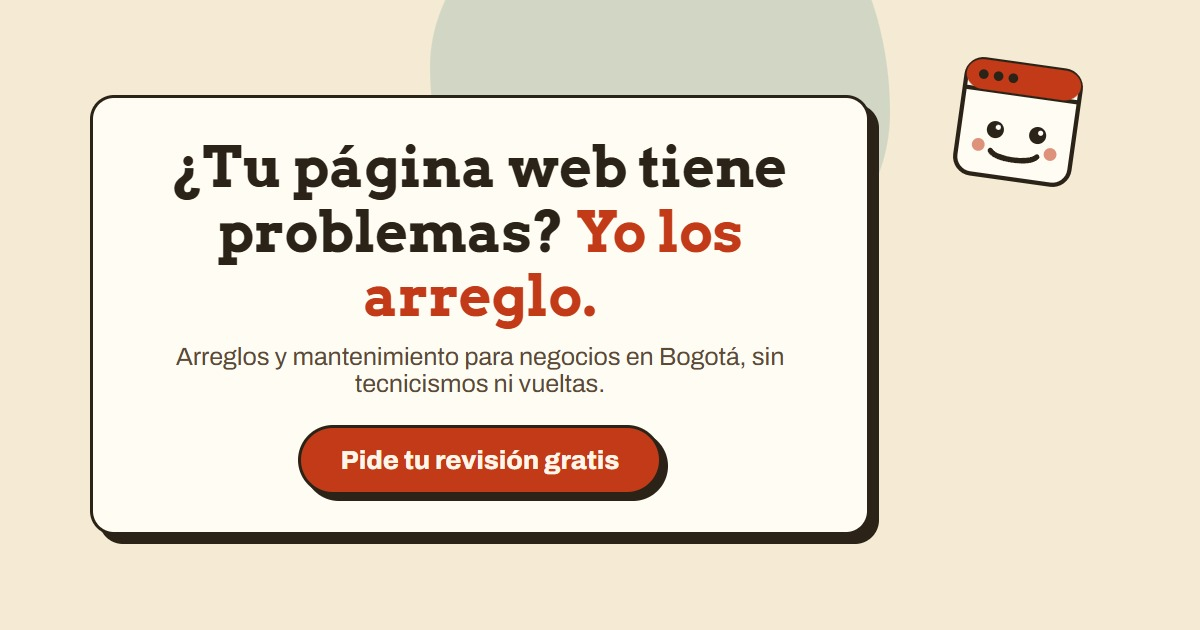
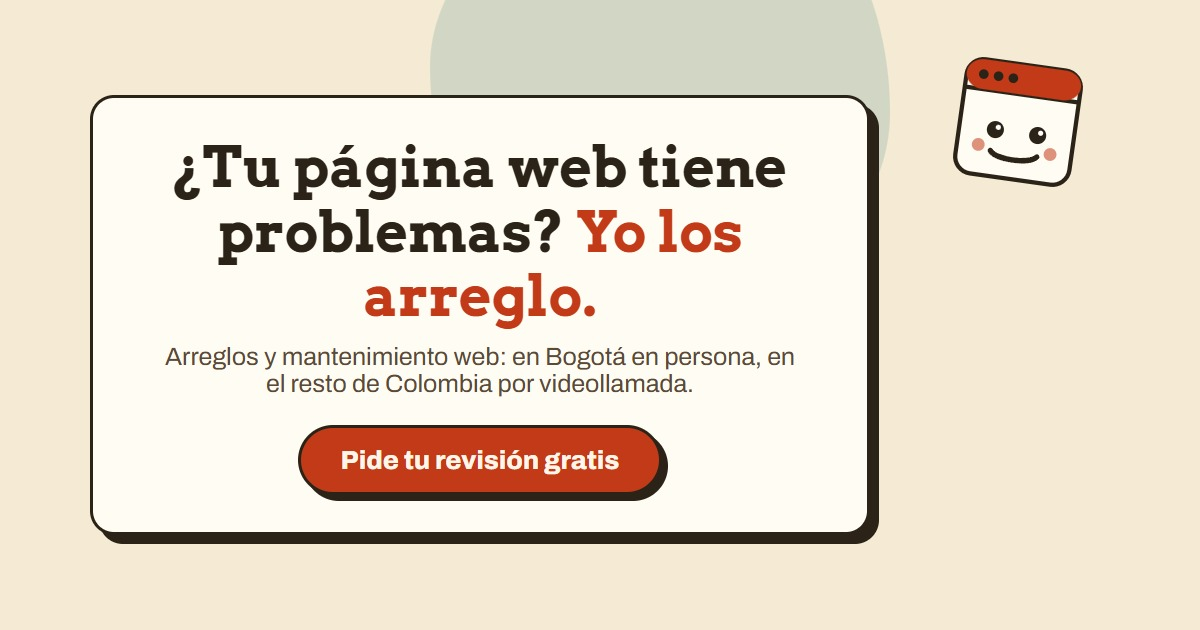
Rebrand to Esteban and expand service area beyond Bogotá
- Julian -> Esteban across all copy, meta tags, WhatsApp message, and
  the mascot's monogram badge (J -> E).
- Copy no longer implies Bogotá-only: in-person in Bogotá, video call
  for the rest of Colombia (hero subtitle, about section, meta
  description, PRODUCT.md).
- Regenerated og-image.jpg with the updated subtitle for consistency.

Claude-Session: https://claude.ai/code/session_01XpaATNJHY3GdeezTwyRHFd

Changed region(s): [[0.1233, 0.5429, 0.6783, 0.6333]]

diff --git a/index.html b/index.html
@@ -3,14 +3,14 @@
   <head>
     <meta charset="UTF-8" />
     <meta name="viewport" content="width=device-width, initial-scale=1.0" />
-    <title>Julian — Arreglo tu página web | Bogotá</title>
-    <meta name="description" content="¿Tu página web tiene problemas? Formulario que no manda correos, carga lenta, no apareces en Google. Arreglo páginas de negocios en Bogotá. Revisión gratis por WhatsApp." />
+    <title>Esteban — Arreglo tu página web</title>
+    <meta name="description" content="¿Tu página web tiene problemas? Formulario que no manda correos, carga lenta, no apareces en Google. Arreglo páginas de negocios en Bogotá y el resto de Colombia por videollamada. Revisión gratis por WhatsApp." />
 
     <!-- Open Graph: así se ve el link al compartirlo por WhatsApp -->
     <meta property="og:type" content="website" />
     <meta property="og:locale" content="es_CO" />
-    <meta property="og:title" content="Julian — Arreglo tu página web" />
-    <meta property="og:description" content="¿Tu página web tiene problemas? Yo los arreglo. Revisión gratis por WhatsApp para negocios en Bogotá." />
+    <meta property="og:title" content="Esteban — Arreglo tu página web" />
+    <meta property="og:description" content="¿Tu página web tiene problemas? Yo los arreglo. Revisión gratis por WhatsApp para negocios en Bogotá y el resto de Colombia." />
     <!-- Reemplaza og-image.jpg (en /public) por una imagen real de 1200x630px antes de publicar (ver README.md) -->
     <meta property="og:image" content="/proyecto-personal/og-image.jpg" />
     <meta name="theme-color" content="#6B4A2C" />

diff --git a/src/components/About.jsx b/src/components/About.jsx
@@ -17,7 +17,7 @@ export default function About() {
               aria-hidden="true"
               className="absolute -top-6 left-1/2 grid h-14 w-14 -translate-x-1/2 -rotate-6 place-items-center rounded-full border-4 border-wall bg-accent font-display text-2xl text-accent-ink shadow-[0_6px_12px_-3px_rgba(0,0,0,0.4)]"
             >
-              J
+              E
             </span>
           }
         >
@@ -25,10 +25,10 @@ export default function About() {
             Sobre mí
           </h2>
           <p className="text-[1.05rem] text-ink-soft">
-            Soy Julian, desarrollador full stack en Bogotá. Trabajo con las mismas tecnologías
+            Soy Esteban, desarrollador full stack. Trabajo con las mismas tecnologías
             que usan empresas grandes, aplicadas a resolver lo que a tu negocio realmente le
-            está costando ventas. Atiendo negocios de toda la ciudad, sin letra pequeña ni
-            tecnicismos.
+            está costando ventas. Atiendo negocios en Bogotá en persona, y en el resto del
+            país por videollamada, sin letra pequeña ni tecnicismos.
           </p>
         </Tag>
       </div>

diff --git a/src/config/whatsapp.js b/src/config/whatsapp.js
@@ -1,10 +1,10 @@
-// ⚠ Reemplaza este número por el número de WhatsApp real de Julian
+// ⚠ Reemplaza este número por el número de WhatsApp real de Esteban
 // (código de país + número, sin espacios ni "+"). Es el ÚNICO lugar
 // del proyecto donde hay que cambiarlo.
 export const WHATSAPP_NUMBER = "573126329466";
 
 export const WHATSAPP_MESSAGE =
-  "Hola Julian, vi tu página y quiero la revisión gratis de mi sitio web";
+  "Hola Esteban, vi tu página y quiero la revisión gratis de mi sitio web";
 
 export function whatsappLink() {
   return `https://wa.me/${WHATSAPP_NUMBER}?text=${encodeURIComponent(WHATSAPP_MESSAGE)}`;

diff --git a/src/components/Hero.jsx b/src/components/Hero.jsx
@@ -27,7 +27,7 @@ export default function Hero() {
             <span className="text-accent">Yo los arreglo.</span>
           </h1>
           <p className="mx-auto mb-7 max-w-[42ch] text-[1.05rem] text-ink-soft sm:text-[1.2rem]">
-            Arreglos y mantenimiento para negocios en Bogotá, sin tecnicismos ni vueltas.
+            Arreglos y mantenimiento web: en Bogotá en persona, en el resto de Colombia por videollamada.
           </p>
           <a
             href={whatsappLink()}

diff --git a/src/components/Footer.jsx b/src/components/Footer.jsx
@@ -1,7 +1,7 @@
 export default function Footer() {
   return (
     <footer className="bg-wall-deep px-4 py-7 text-center text-[0.85rem]">
-      <p className="m-0 text-paper-onwall/55">Julian · Desarrollador web · Bogotá</p>
+      <p className="m-0 text-paper-onwall/55">Esteban · Desarrollador web · Bogotá y remoto por videollamada</p>
     </footer>
   );
 }

diff --git a/PRODUCT.md b/PRODUCT.md
@@ -12,15 +12,15 @@ React 19 + Vite + Tailwind CSS 4, organized into per-section components under `s
 
 ## Users
 
-Small business owners in Bogotá who are not technical. They almost always view the page on a phone, arriving via a link shared in WhatsApp (typically after messaging Julian or receiving his contact). They think in symptoms ("my contact form doesn't send emails," "my site is slow," "I don't show up on Google"), not technical vocabulary.
+Small business owners who are not technical, based in Bogotá (served in person) or elsewhere in Colombia (served by video call). They almost always view the page on a phone, arriving via a link shared in WhatsApp (typically after messaging Esteban or receiving his contact). They think in symptoms ("my contact form doesn't send emails," "my site is slow," "I don't show up on Google"), not technical vocabulary.
 
 ## Product Purpose
 
-This is Julian's personal services page: a single-page site where he offers website fixes and maintenance to small businesses. Its job is to convince a non-technical visitor that Julian can solve their specific website problem, and convert that trust into a WhatsApp message requesting a free review. Success = the visitor taps the WhatsApp button.
+This is Esteban's personal services page: a single-page site where he offers website fixes and maintenance to small businesses. Its job is to convince a non-technical visitor that Esteban can solve their specific website problem, and convert that trust into a WhatsApp message requesting a free review. Success = the visitor taps the WhatsApp button.
 
 ## Positioning
 
-Julian is a full-stack developer in Bogotá who works with technologies large companies use, but applies that skill to fix small businesses' everyday website problems — described in plain client language, never technical jargon. The offer is low-friction and low-risk: free initial review, fixed quote before any work starts, same-day response.
+Esteban is a full-stack developer based in Bogotá (in-person there, video call for the rest of Colombia) who works with technologies large companies use, but applies that skill to fix small businesses' everyday website problems — described in plain client language, never technical jargon. The offer is low-friction and low-risk: free initial review, fixed quote before any work starts, same-day response.
 
 ## Operating Context
 
@@ -29,7 +29,7 @@ Visitors arrive cold, mostly from a WhatsApp-shared link, mostly on mobile data 
 ## Capabilities and Constraints
 
 - Single static page, no forms, no analytics, no cookies.
-- The only call to action is a WhatsApp deep link: `https://wa.me/57XXXXXXXXXX` with a prefilled message ("Hola Julian, vi tu página y quiero la revisión gratis de mi sitio web"). The phone number is a placeholder (`XXXXXXXXXX`) Julian will replace before publishing, and it must stay easy to find/replace in the source.
+- The only call to action is a WhatsApp deep link with a prefilled message ("Hola Esteban, vi tu página y quiero la revisión gratis de mi sitio web"), centralized in `src/config/whatsapp.js`.
 - Needs complete meta tags (title, description) and Open Graph tags so the link previews well when shared in WhatsApp.
 - Pricing is presented in COP as "desde" (starting-at) tiers, with a note that the initial review is free and quotes are fixed before work begins:
   - Arreglo puntual (formulario, error, algo roto): desde $250.000
@@ -40,16 +40,16 @@ Visitors arrive cold, mostly from a WhatsApp-shared link, mostly on mobile data 
 
 ## Brand Commitments
 
-Name: Julian. Full-stack developer based in Bogotá. Voice: close and trustworthy, not a corporate agency — must not read as a generic AI-template landing page.
+Name: Esteban. Full-stack developer based in Bogotá, available in the rest of Colombia by video call. Voice: close and trustworthy, not a corporate agency — must not read as a generic AI-template landing page.
 
 ## Evidence on Hand
 
-No real photos, testimonials, or case studies were provided — none should be fabricated. Only the pricing tiers, problem list, and 3-step process described by Julian exist as real content; everything else (imagery, decorative content, proof elements) must be either omitted or built from these facts, not invented claims.
+No real photos, testimonials, or case studies were provided — none should be fabricated. Only the pricing tiers, problem list, and 3-step process described by Esteban exist as real content; everything else (imagery, decorative content, proof elements) must be either omitted or built from these facts, not invented claims.
 
 ## Product Principles
 
 1. Speak in customer symptoms, never technical jargon.
-2. Every path on the page leads to the same low-friction action: message Julian on WhatsApp.
+2. Every path on the page leads to the same low-friction action: message Esteban on WhatsApp.
 3. Fast and lightweight beats feature-rich — mobile 4G visitors must get a sub-2s load.
 4. Trustworthy and personal tone over corporate/agency polish.
-5. Never fabricate evidence (photos, testimonials, stats) that Julian hasn't provided.
+5. Never fabricate evidence (photos, testimonials, stats) that Esteban hasn't provided.

diff --git a/.impeccable/surfaces/index.md b/.impeccable/surfaces/index.md
@@ -7,7 +7,7 @@ related_targets: []
 
 # Surface: index (landing page, mode: Persuade)
 
-Audience: non-technical small business owners in Bogotá, viewing on mobile, arriving via a WhatsApp-shared link. Job: decide in seconds whether to trust Julian and tap WhatsApp for a free review. Content/proof: the pricing tiers, problem list, and 3-step process Julian gave verbatim; no fabricated testimonials, photos, or stats. Constraints: React + Vite + Tailwind CSS, componentized per section, no forms/analytics/cookies, mobile-first, <2s on 4G, all copy in Colombian Spanish customer language (symptoms, not jargon).
+Audience: non-technical small business owners in Bogotá, viewing on mobile, arriving via a WhatsApp-shared link. Job: decide in seconds whether to trust Esteban and tap WhatsApp for a free review. Content/proof: the pricing tiers, problem list, and 3-step process Esteban gave verbatim; no fabricated testimonials, photos, or stats. Constraints: React + Vite + Tailwind CSS, componentized per section, no forms/analytics/cookies, mobile-first, <2s on 4G, all copy in Colombian Spanish customer language (symptoms, not jargon).
 
 ## Direction contract
 
@@ -15,7 +15,7 @@ THESIS: A confident, friendly "fixer" brand: flat black-outlined cards with a ha
 
 OWN-WORLD: Warm cream background (`#F5EAD3`/`#E9D6AC`), near-white cards (`#FFFCF4`) with a solid `2.5px` ink-colored border and a `5px 5px 0` hard offset shadow (no blur) — a deliberately neobrutalist-adjacent device, earned because the world commits to it everywhere. Arvo (slab serif) for display type, Archivo for body. One committed orange-red accent for all CTAs/prices/icons. One muted sage-green blob as the only secondary color, used once behind the hero as a background shape. One mascot: a smiling browser-window character, used once in the hero.
 
-STORY: unchanged from the original brief — visitor lands mid-symptom, recognizes their problem among 4-6 cards, sees the fix already priced under "desde," is walked through 3 steps, meets Julian, taps WhatsApp (repeated top and bottom).
+STORY: unchanged from the original brief — visitor lands mid-symptom, recognizes their problem among 4-6 cards, sees the fix already priced under "desde," is walked through 3 steps, meets Esteban, taps WhatsApp (repeated top and bottom).
 
 FIRST VIEWPORT: One outlined hero card on the cream ground, a soft green blob peeking from behind it, the mascot pinned to its top-right corner, serif headline, orange WhatsApp button with a hard shadow.
 

diff --git a/README.md b/README.md
@@ -1,6 +1,6 @@
-# Página personal de Julian — Arreglo tu página web
+# Página personal de Esteban — Arreglo tu página web
 
-Landing de una sola página para ofrecer arreglos y mantenimiento web a negocios pequeños en Bogotá. Hecha en React + Vite + Tailwind CSS.
+Landing de una sola página para ofrecer arreglos y mantenimiento web a negocios pequeños: en Bogotá en persona, en el resto de Colombia por videollamada. Hecha en React + Vite + Tailwind CSS.
 
 ## Stack
 
